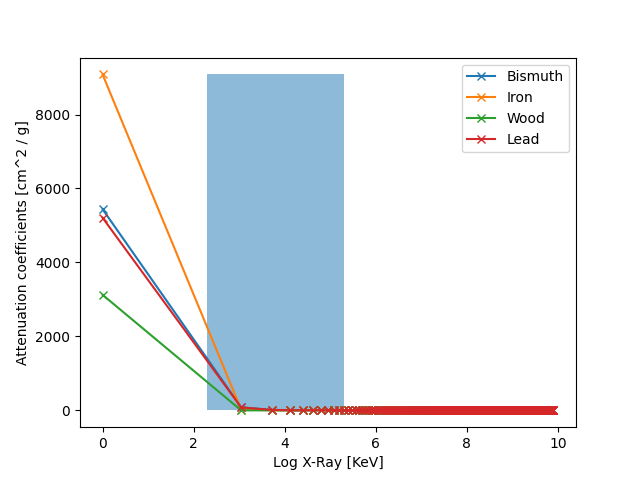
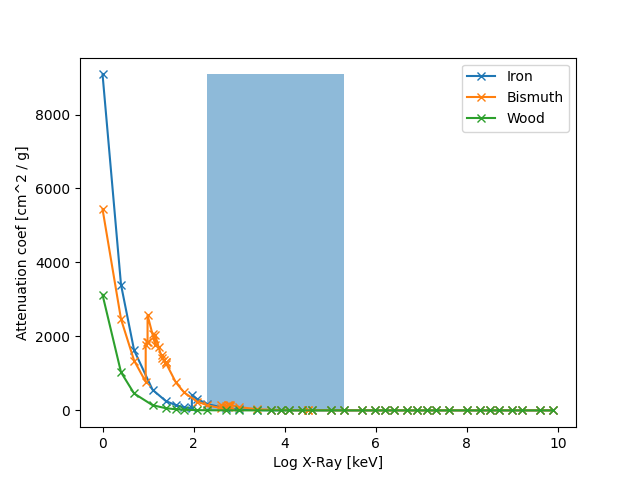
Proper attenuation coef plot

diff --git a/code/atttenuation_coef.py b/code/atttenuation_coef.py
@@ -11,25 +11,31 @@ lead_coef = np.loadtxt('lead_data.txt')
 
 #Carbon, hydrogen, oxygen
 wood_composite = [0.5, 0.06, 0.44]
-x_val_oxygen = 1000*oxygen_coef[:,0]
-x_val_carbon = 1000*carbon_coef[:,0]
-x_val_hydrogen = 1000*hydrogen_coef[:,0]
+x_val_oxygen = 1000 * oxygen_coef[:,0]
+x_val_carbon = 1000 * carbon_coef[:,0]
+x_val_hydrogen = 1000 * hydrogen_coef[:,0]
 
 y_val_oxygen = oxygen_coef[:,1]
 y_val_carbon = carbon_coef[:,1]
 y_val_hydrogen = hydrogen_coef[:,1]
 
+x_val_wood = wood_composite[0]*x_val_carbon+wood_composite[1]*x_val_hydrogen+wood_composite[2]*x_val_oxygen
+y_val_wood = wood_composite[0]*y_val_carbon+wood_composite[1]*y_val_hydrogen+wood_composite[2]*y_val_oxygen
+
+
 xinterp = np.linspace(min(x_val_oxygen), max(x_val_oxygen), 1000)
-yinterp_wood = wood_composite[0]*np.interp(xinterp, x_val_carbon, y_val_carbon)+wood_composite[1]*np.interp(xinterp, x_val_hydrogen, y_val_hydrogen)+wood_composite[2]*np.interp(xinterp, x_val_oxygen, y_val_oxygen)
+# print(f"xinterp: {xinterp}")
+#yinterp_wood = wood_composite[0]*np.interp(xinterp, x_val_carbon, y_val_carbon)+wood_composite[1]*np.interp(xinterp, x_val_hydrogen, y_val_hydrogen)+wood_composite[2]*np.interp(xinterp, x_val_oxygen, y_val_oxygen)
+
 
 
 # Change from MeV to KeV
-x_val_iron = 1000*iron_coef[:,0]
-x_val_bismuth = 1000*bismuth_coef[:,0]
+x_val_iron = 1000 * iron_coef[:,0]
+x_val_bismuth = 1000 * bismuth_coef[:,0]
 x_val_lead = 1000 * lead_coef[:, 0]
 
-print(f"bismuth x: {x_val_bismuth}")
-print(f"log bismuth x: {np.log(x_val_bismuth)}")
+# print(f"bismuth x: {x_val_bismuth}")
+# print(f"log bismuth x: {np.log(x_val_bismuth)}")
 
 y_val_iron = iron_coef[:,1]
 y_val_bismuth = bismuth_coef[:,1]
@@ -43,23 +49,50 @@ yinterp_iron = np.interp(xinterp, x_val_iron, y_val_iron)
 
 yinterp_lead = np.interp(xinterp, x_val_lead, y_val_lead)
 
+yinterp_wood = np.interp(xinterp, x_val_wood, y_val_wood)
+
 diff_coef = np.abs(yinterp_bismuth-yinterp_iron)
 
 
-plt.figure("log x-axis")
-#plt.plot(np.log(x_val_bismuth), np.log(y_val_bismuth), 'o')
-#plt.plot(np.log(x_val_iron), (y_val_iron), 'o')
-plt.plot(np.log(xinterp),yinterp_bismuth, '-x')
-plt.plot(np.log(xinterp),yinterp_iron, '-x')
-plt.plot(np.log(xinterp),yinterp_wood,'-x')
-plt.plot(np.log(xinterp),yinterp_lead, '-x')
 
-plt.xlabel("Log X-Ray [KeV]")
-plt.ylabel("Attenuation coefficients [cm^2 / g]")
+x_combined = sorted(list(x_val_iron) + list(x_val_bismuth))
+new_y_bismuth = np.interp(x_combined, x_val_bismuth, y_val_bismuth)
+new_y_iron = np.interp(x_combined, x_val_iron, y_val_iron)
 
-plt.legend(["Bismuth", "Iron", "Wood", "Lead"])
+diff_yinterp = np.abs(new_y_bismuth - new_y_iron)
+plt.figure("diff")
+plt.fill_betweenx([min(y_val_iron),max(y_val_iron)],np.log(10),np.log(200),alpha=0.5)
+plt.plot(np.log(x_combined), diff_yinterp, '-x')
+
+combined = [(diff, x, np.log(x)) for diff,x in zip(diff_yinterp, x_combined) if x >= 10 and x <= 200]
+print(max(combined, key=lambda v: v[0]))
+
+# plt.figure("log x-axis")
+# #plt.plot(np.log(x_val_bismuth), np.log(y_val_bismuth), 'o')
+# #plt.plot(np.log(x_val_iron), (y_val_iron), 'o')
+# plt.plot(np.log(xinterp),yinterp_bismuth, '-x')
+# plt.plot(np.log(xinterp),yinterp_iron, '-x')
+# plt.plot(np.log(xinterp),yinterp_wood,'-x')
+# plt.plot(np.log(xinterp),yinterp_lead, '-x')
+
+# plt.xlabel("Log X-Ray [KeV]")
+# plt.ylabel("Attenuation coefficients [cm^2 / g]")
+
+# plt.legend(["Bismuth", "Iron", "Wood", "Lead"])
+
+# plt.fill_betweenx([min(y_val_iron),max(y_val_iron)],np.log(10),np.log(200),alpha=0.5)
+
+# iron_bismuth_diff = np.abs(y_val_bismuth - y_val_iron)
+
+plt.figure("raw data, log x")
+plt.plot(np.log(x_val_iron), y_val_iron, '-x')
+plt.plot(np.log(x_val_bismuth), y_val_bismuth, '-x')
+plt.plot(np.log(x_val_wood), y_val_wood, '-x')
+plt.xlabel("Log X-Ray [keV]")
+plt.ylabel("Attenuation coef [cm^2 / g]")
 
 plt.fill_betweenx([min(y_val_iron),max(y_val_iron)],np.log(10),np.log(200),alpha=0.5)
+plt.legend(["Iron", "Bismuth", "Wood"])
 
 plt.show()
 

diff --git a/code/ridge_regularization.py b/code/ridge_regularization.py
@@ -1,0 +1,28 @@
+import numpy as np
+import cvxpy as cp
+import matplotlib.pyplot as plt
+import skimage as ski
+from paralleltomo import paralleltomo
+from sklearn import linear_model
+from generate_test_im import *
+
+n = 50
+num_pellets = 100
+pellet_size = 1
+att_coefs = [0.0157403151,0.0687329102,1]
+im = generate_im(n,att_coefs,num_pellets,pellet_size)
+
+theta = np.matrix(np.linspace(1 + 0, 1 + 180-2, 180 // 2))
+p=30
+A,theta,p,d = paralleltomo(N)
+np.linalg.cond(A)
+
+b = A @ x_input
+lam = 0
+model = Ridge(alpha = lam)
+
+model.fit(A,b)
+x_ridge = model.coef_
+im_recov_ridge = np.reshape(x_ridge,(N,N))
+plt.imshow(im_recov_ridge)
+plt.show()
